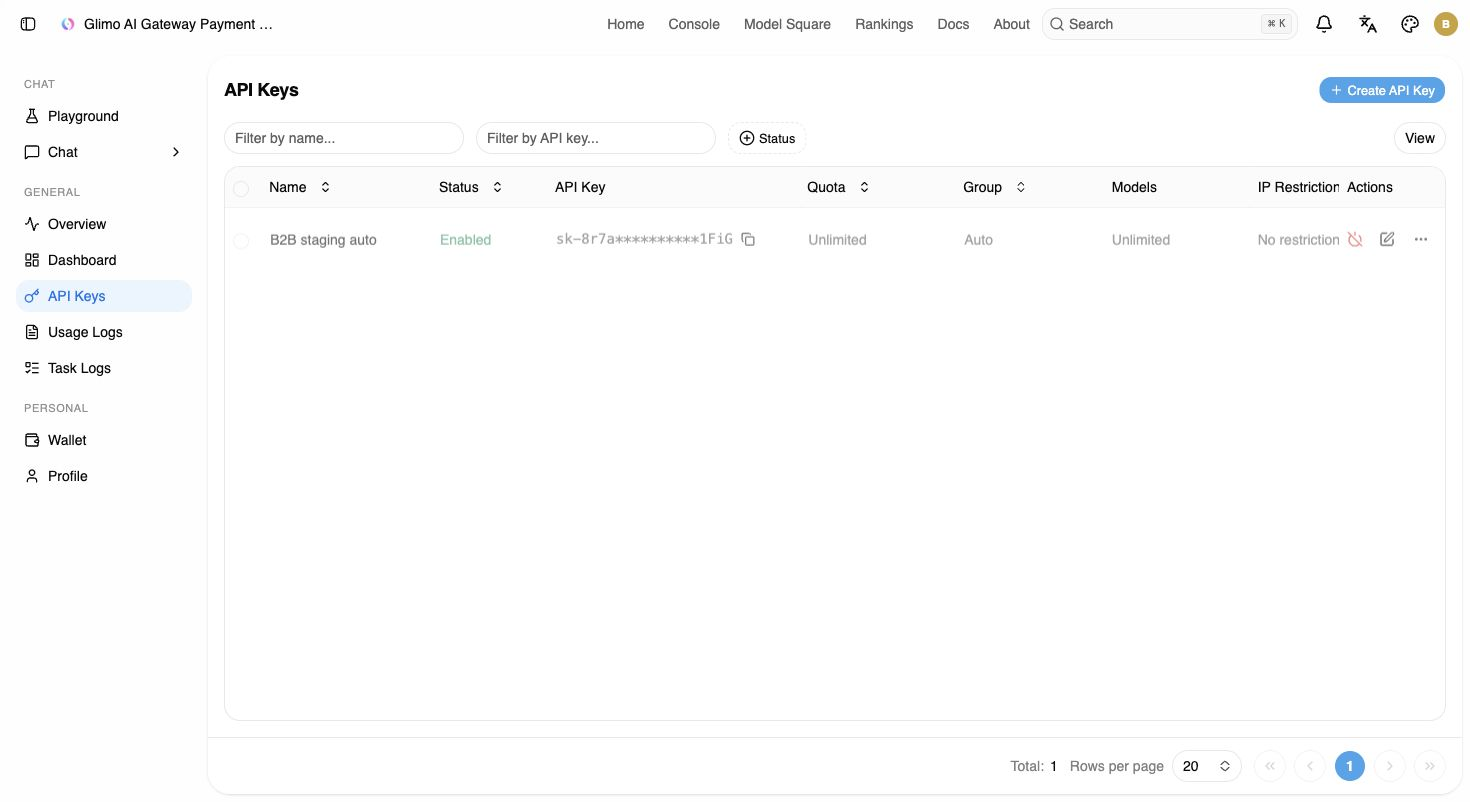
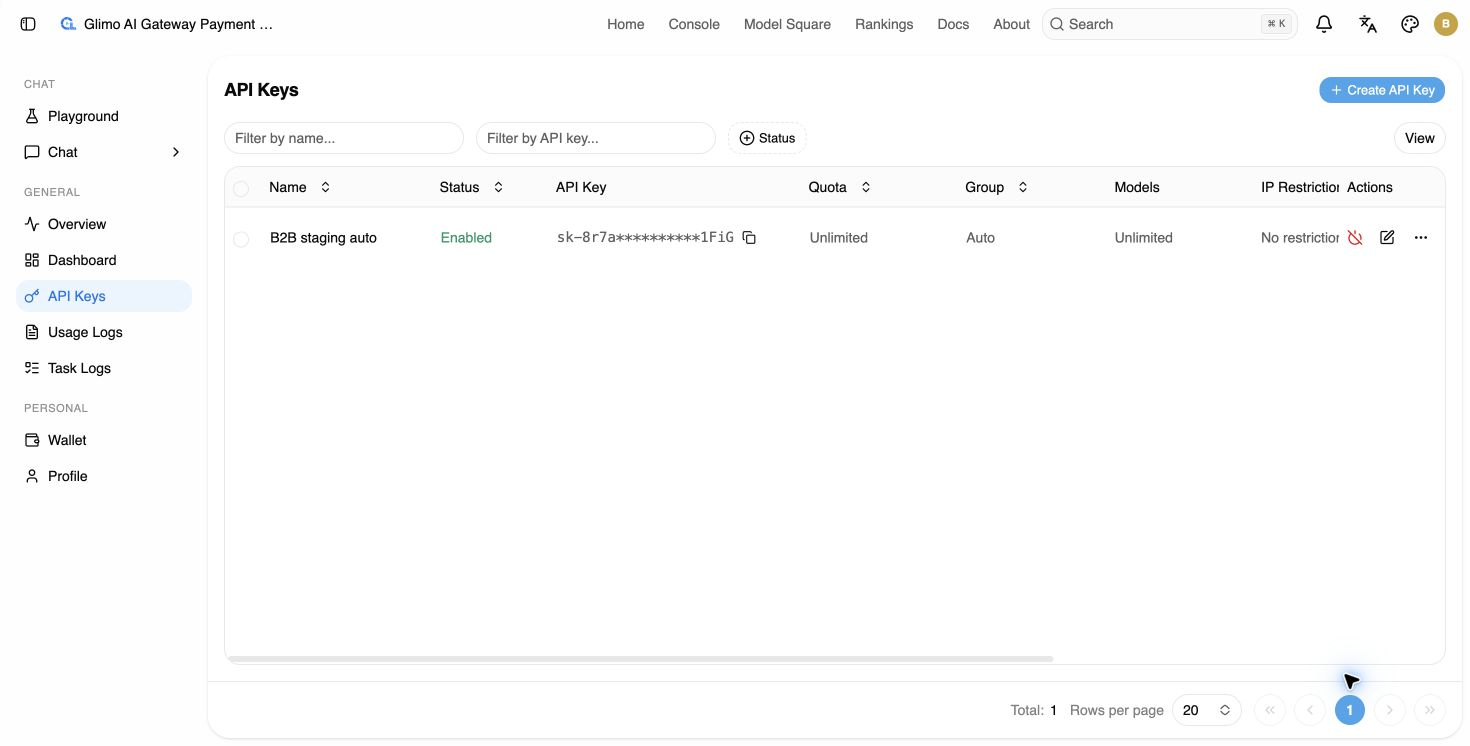
docs: record B2B redemption wallet acceptance

diff --git a/docs/evidence/glimo-b2b-staging/README.md b/docs/evidence/glimo-b2b-staging/README.md
@@ -220,11 +220,86 @@ updated through the authenticated admin UI:
 The production value remains unchanged pending the separate production canary
 approval.
 
+### Controlled customer credential sync
+
+PR `#14` added a manual, staging-only account sync job after the admin UI
+password update failed validation during customer-account handoff. The job
+first verifies that user ID 3 is exactly `b2btest` in group `b2b`, then resets
+its password from the protected `STAGING_CUSTOMER_PASSWORD` GitHub Environment
+Secret and verifies the public login response. It does not build or deploy an
+image and cannot target production.
+
+Workflow run `29640598209` passed the complete Go/frontend verification and the
+controlled customer reset/login check. Image and deployment jobs were skipped.
+No password was printed or persisted on the staging host; the short-lived local
+handoff file was deleted immediately after the browser session received it.
+
+### Real redemption and dual-balance correction
+
+The ordinary `b2btest` customer redeemed a real one-time staging code for
+US$25, expiring after one month. The first live result exposed an accounting
+classification defect:
+
+| Stage | Total | Recharge | Promotional | Result |
+|---|---:|---:|---:|---|
+| Before redemption | $35 | $35 | $0 | Baseline |
+| Before fix | $60 | $60 | $0 | Incorrect: new redemption was classified as cash |
+| After fix | $60 | $35 | $25 | Passed |
+
+The root cause was the original shortcut `min(total quota, historical net
+cash)`: after earlier cash consumption, historical cash funding remained above
+the current total and hid a later promotional grant. PR `#15` retained
+`users.quota` as the only spendable balance and added one lightweight field to
+the existing `redemptions` table: the user's cumulative used quota at the time
+of redemption. Remaining promotion is now calculated in redemption order from
+the deltas between those snapshots. No wallet or ledger table was added.
+
+The same calculation now controls completed-refund validation, so the US$25
+Promotional Credit is excluded from the customer's refundable balance. The
+legacy staging migration conservatively excludes older redeemed fixtures and
+retains only the newest pre-migration B2B redemption as potentially
+unconsumed. Non-B2B users are not changed.
+
+Deployment run `29641242002` passed the full Go suite, frontend type-check and
+build, ARM64 image build, isolated staging deployment, database migration,
+local/public health checks, and ephemeral credential cleanup. The deployed
+image is `ghcr.io/leoxk/new-api:staging-57ec51ed3e5e725d25978ff9f5da125c603c7037`.
+
+### Ordinary customer visual audit
+
+The authenticated `b2btest` session confirmed:
+
+- Wallet shows Total, Recharge, Promotional, Total Usage, API Requests, Stripe
+  top-up, Redemption Code, Order History, and Refund & Support.
+- Stripe is the only visible payment method; PayPal is absent.
+- The sidebar has no Admin section, Referral Program, Subscription Plans, or
+  Check-in Rewards.
+- The API key remains enabled with group `Auto` and its secret is masked.
+- The Wallet correctly explains promotion-first consumption, non-refundable
+  and non-transferable Promotional Credit, manual Recharge Balance review, and
+  processor receipts.
+
+Two customer-experience gaps remain visible:
+
+- The payment-only staging Model Square contains zero configured model
+  metadata, so the ten-model commercial catalog cannot be visually accepted in
+  this isolated environment.
+- The API Keys table says `Models: Unlimited`. Actual access is still governed
+  by the B2B user group and `auto` routing, but the wording is misleading and
+  should be replaced with an approved-catalog description before customer
+  canary.
+- Model Square exposes the internal group labels and ratios (`b2b x0.1` and
+  `b2b-deepseek x1.1`) in its filter. Customer-facing catalog copy must describe
+  effective prices without revealing internal routing groups.
+
 ## Screenshots
 
 - `customer-wallet-desktop.png`
 - `customer-wallet-mobile.png`
 - `customer-api-keys-desktop.png`
+- `customer-wallet-promo-after-redemption.png`
+- `customer-wallet-stripe-redemption-support.png`
+- `customer-model-square-empty.png`
 - `admin-users-desktop.png`
 - `admin-order-refund-history.png`
 - `admin-refund-form.png`
@@ -232,12 +307,12 @@ approval.
 
 ## Remaining external gates
 
-- Enable Chrome extension access to file URLs, then upload the approved Glimo
-  icon and horizontal logo to the Stripe sandbox branding page.
-- Create and redeem a real staging redemption code.
 - Repeat the successful Checkout once under the controlled `b2btest` customer
   instead of the root operator, and archive the final customer-facing receipt
   view.
+- Validate the ten-model catalog, hide internal group labels/ratios, and replace
+  the misleading `Models: Unlimited` wording in an environment that contains
+  the approved B2B model metadata.
 - Do not connect Stripe live credentials or process a real payment until public
   terms, final pricing, staging evidence, and canary approval are complete.
 - No production merchant account, credential, payment, refund, price, balance,
